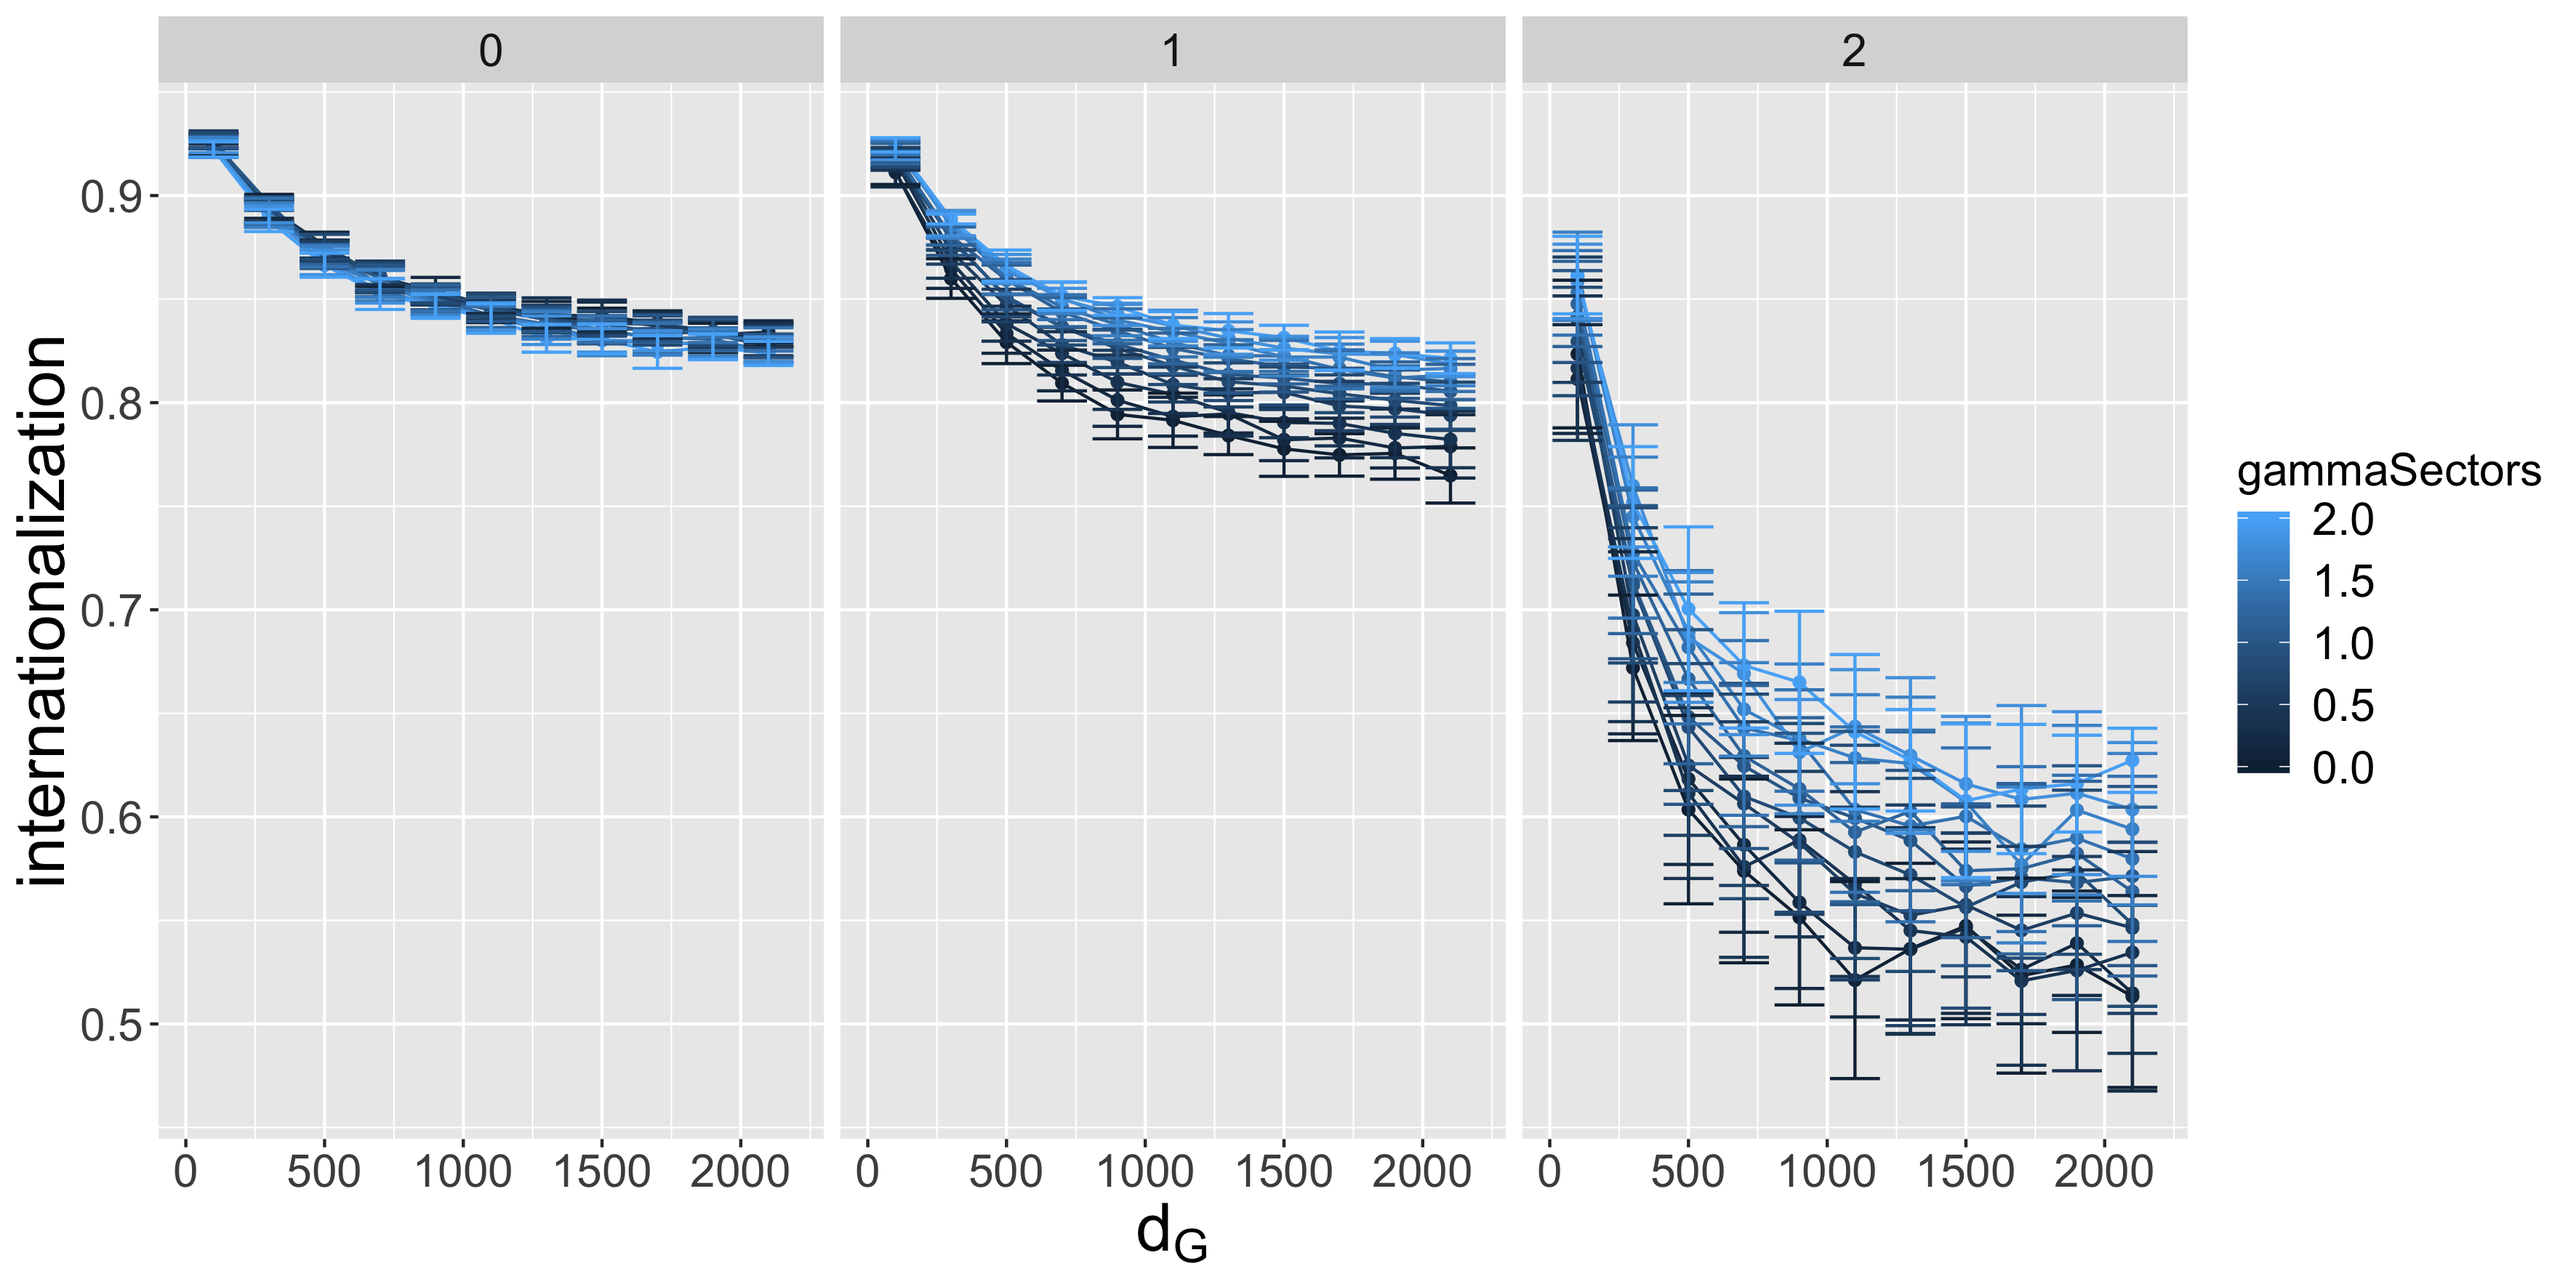
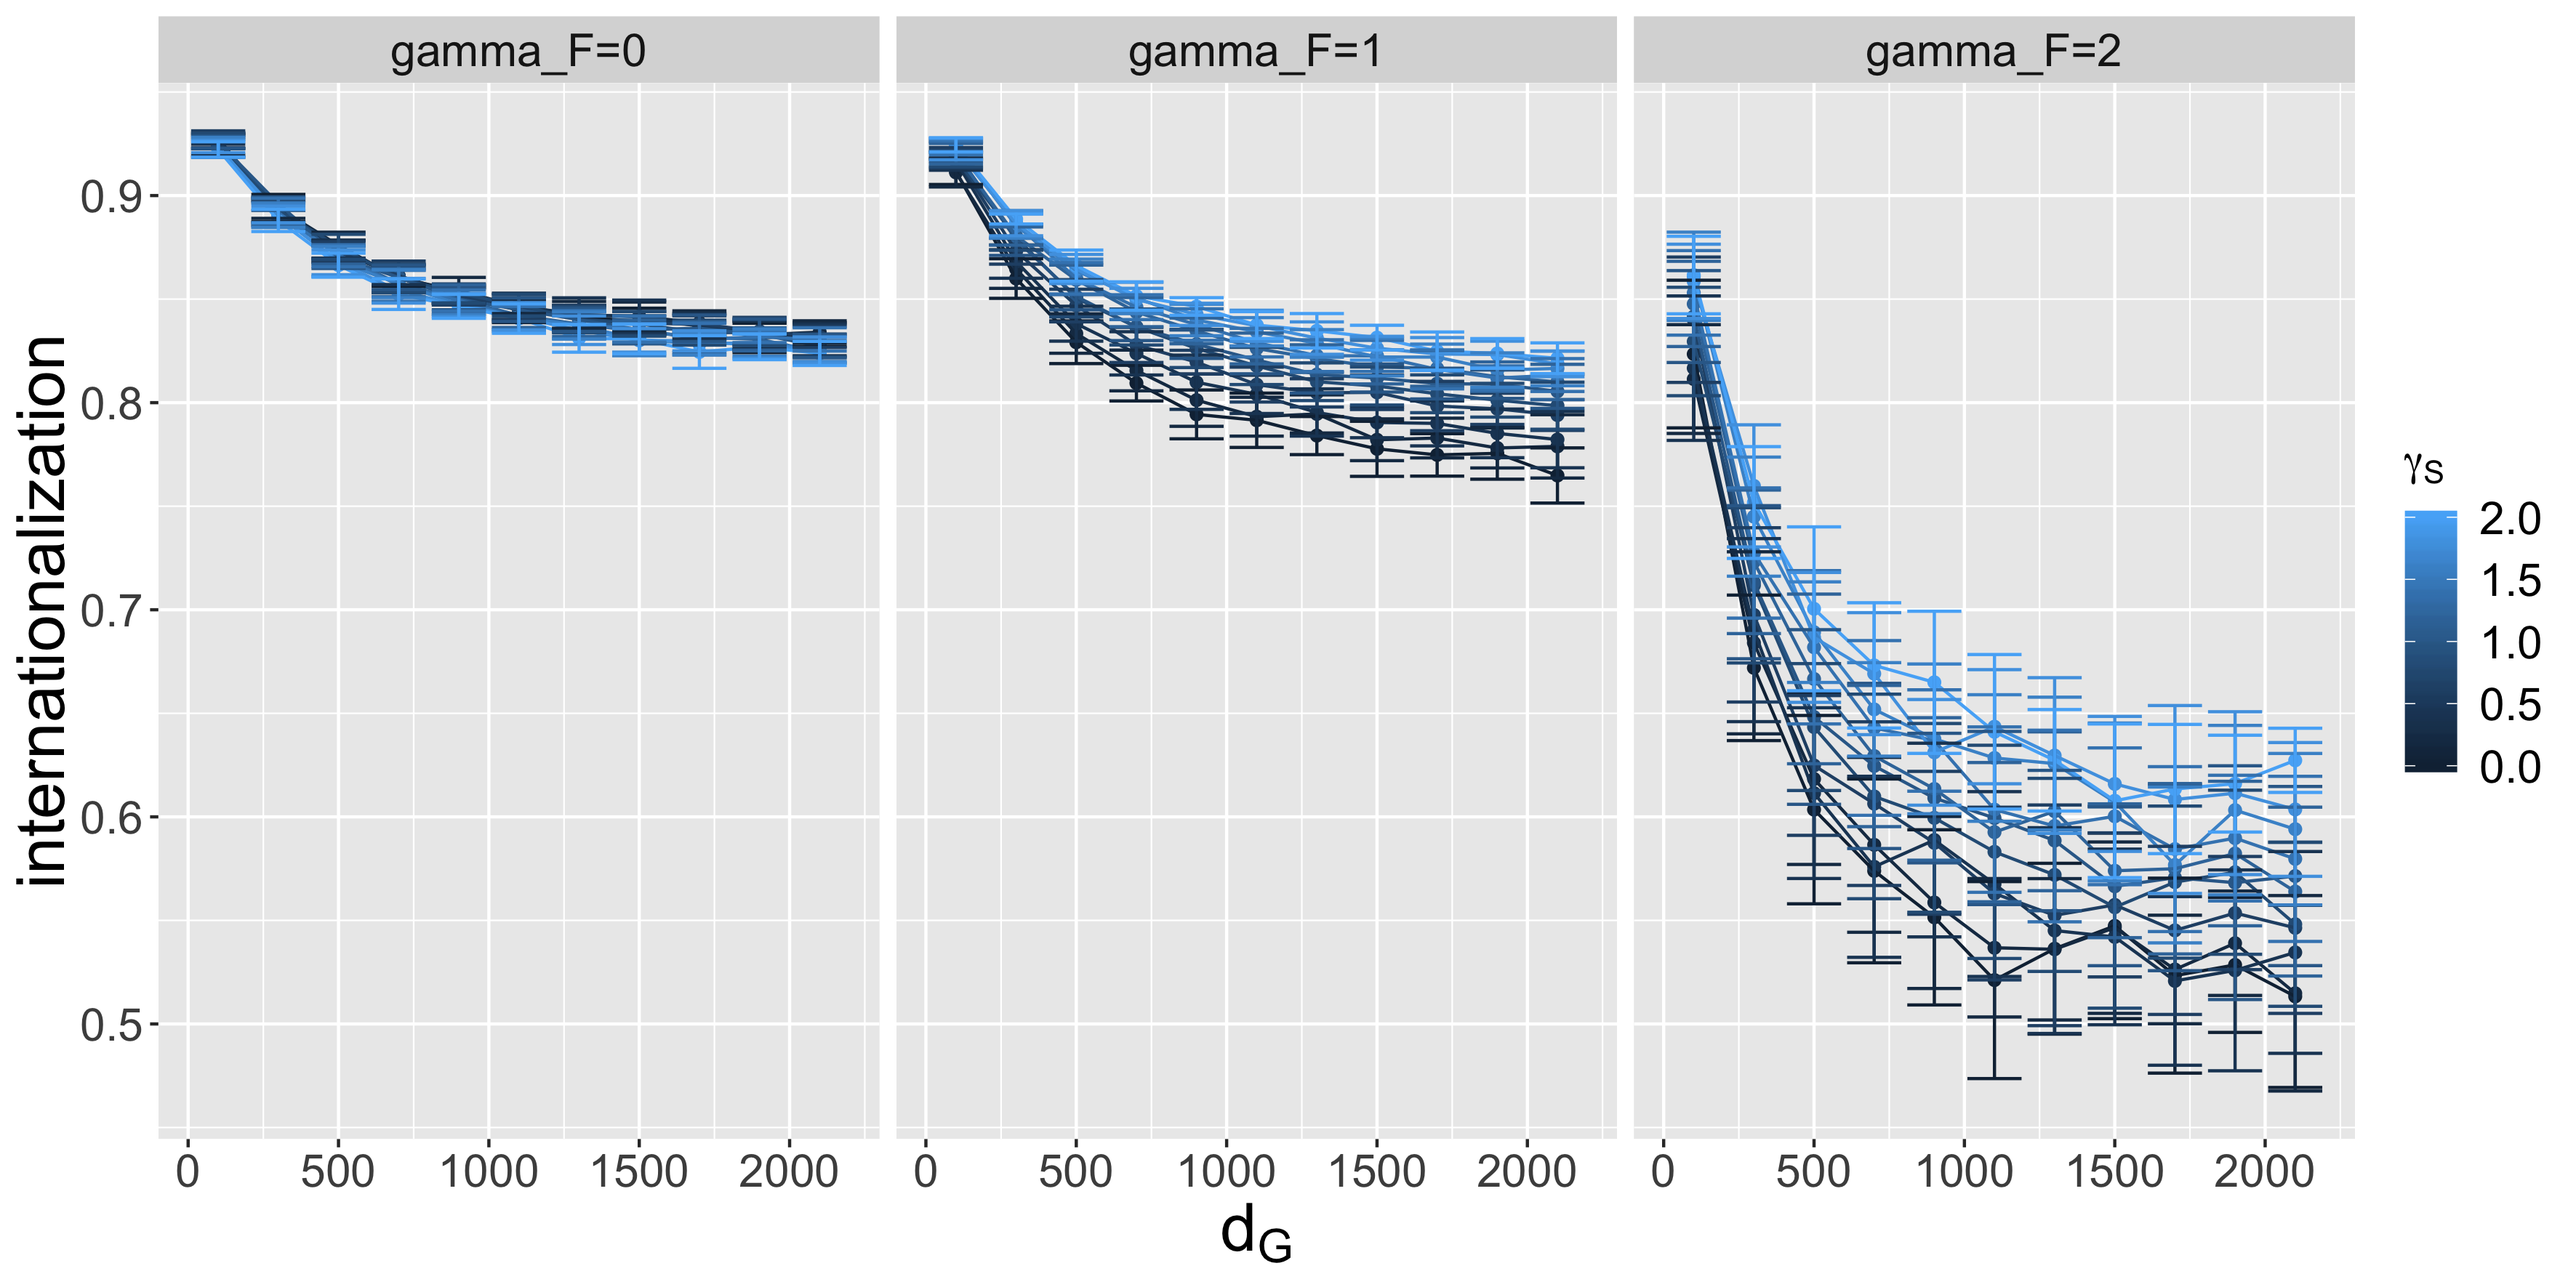
Update on Overleaf.

Changed region(s): [[0.0621, 0.0, 0.9935, 0.9938], [0.4347, 0.0311, 0.5278, 0.0621], [0.1552, 0.0311, 0.2484, 0.0621]]

diff --git a/slides.tex b/slides.tex
@@ -324,11 +324,18 @@ Generation of a continent-scale urban system with stylized order of magnitude co
     
 }
 
-\sframe{Grid exploration}{
+\sframe{Grid exploration: internationalization}{
 
     \centering
 
     \includegraphics[width=\textwidth]{figures/internationalization_countryGravityDecay200_gammaDestination0_facetwrapgammaOrigin_colorgammaSectors.png}
+    
+    \medskip
+    
+    \footnotesize
+    
+    \textit{}
+    
 }
 
 % alors tu as explique pendant la presentqtion pour Mike, mais je n'ai pas compris pourquoi il a trois graphiques 0 1 2 et pourquoi le 3 est si different:?
@@ -344,13 +351,11 @@ Generation of a continent-scale urban system with stylized order of magnitude co
 
 % alors ici il faut reconnomer l'axe des ordonnees ca peut etre community size? qui est defini comment d'ailleurs ici? C'est la ou tu as dit que le pic aussi rapide est interessant, donc en si peu de temps la taille du reseaux grossi c'est ca :'(? et du coup comment expliquer le 2 a droite? 
 
-\sframe{Grid exploration}{
-
-    \centering
-
-    \includegraphics[width=\textwidth]{figures/rhoFlowDistance_countryGravityDecay2100_gammaDestination2_facetwrapgammaOrigin_colorgammaSectors.png}
-}
-
+%\sframe{Grid exploration}{
+%    \centering
+%
+%    \includegraphics[width=\textwidth]{figures/rhoFlowDistance_countryGravityDecay2100_gammaDestination2_facetwrapgammaOrigin_colorgammaSectors.png}
+%}
 % idem la c'est pas facile a lire pour quelqu'un qui ne connait pas. c'est quoi rhoFlowDistance?
 % le gamma sector c'est le parametre de la variable secteurs donc s? 
 % en fait quand j'y pense pourquoi il yq u gradien du gamma et comment comprendre ces varations pour chqaue pqs de temps
